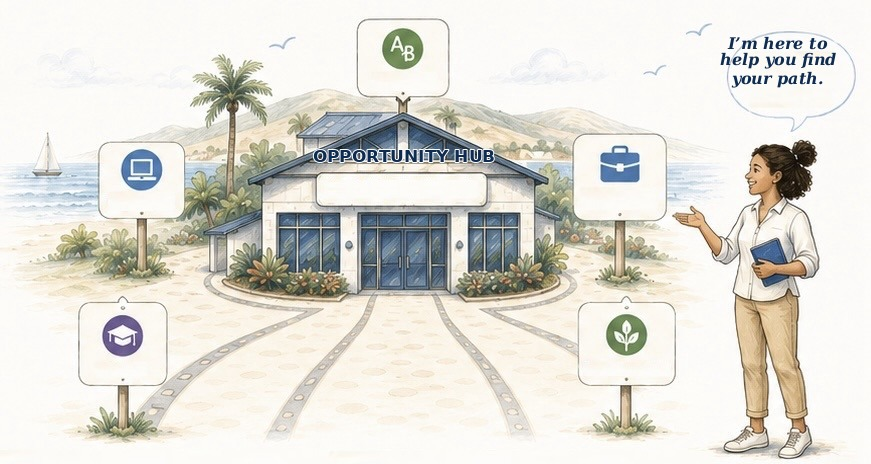
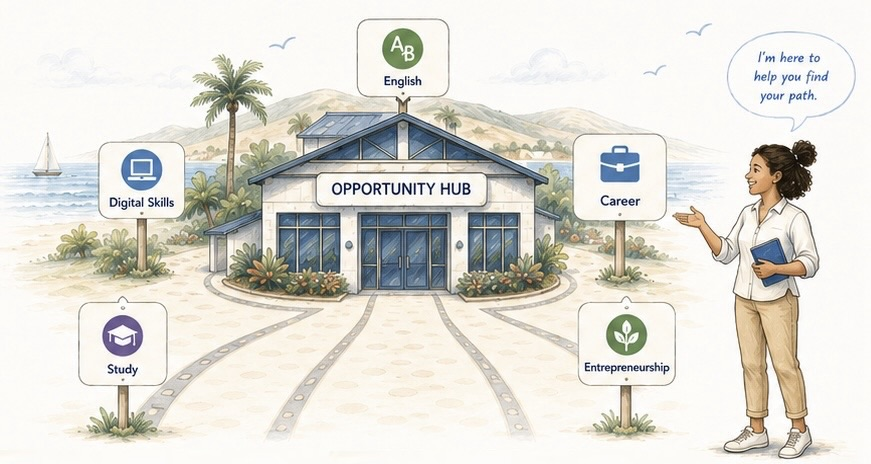
Add files via upload

diff --git a/resources.html b/resources.html
@@ -34,25 +34,6 @@ html{scroll-padding-top:108px}body{overflow-x:hidden}.section[id],main [id]{scro
 .hero-legend{max-width:1040px;margin:12px auto 0;display:flex;flex-wrap:wrap;gap:8px;justify-content:center;align-items:center;color:#31415d;font-size:.92rem}
 .hero-legend b{color:#0e2b52}.hero-legend span{display:inline-flex;align-items:center;border:1px solid #dbe7ee;background:#fff;border-radius:999px;padding:6px 10px;font-weight:800;white-space:nowrap}
 @media(max-width:640px){.hero-legend{justify-content:flex-start;font-size:.84rem;margin-top:10px}.hero-legend span{padding:5px 8px}}
-/* RH-LAYERED-HERO1: PowerPoint-style layered hero. Base image remains visual; labels are live HTML text for translation and accessibility fallback. Scope: resources.html hero only. */
-.hero-art-layered{position:relative!important;overflow:visible!important;background:#fff!important;}
-.rh-hero-stage{position:relative;display:block;width:100%;max-width:1160px;margin:0 auto;line-height:1;overflow:hidden;border-radius:30px;background:#fff;}
-.rh-hero-stage img{display:block!important;width:100%!important;height:auto!important;object-fit:contain!important;}
-.rh-hero-live-label{position:absolute;left:var(--rh-x);top:var(--rh-y);width:var(--rh-w);min-height:var(--rh-h);transform:translate(-50%,-50%) rotate(var(--rh-r,0deg));z-index:2;display:flex;align-items:center;justify-content:center;text-align:center;padding:.12em .22em;color:#142c47;font-family:Arial,"Helvetica Neue",Helvetica,sans-serif;font-size:clamp(.42rem,1.05vw,.86rem);font-weight:800;line-height:1.04;letter-spacing:.01em;overflow-wrap:anywhere;hyphens:auto;text-shadow:0 .06em 0 rgba(255,255,255,.86),0 0 .32em rgba(255,255,255,.74);pointer-events:none;}
-.rh-hero-live-label--digital{--rh-x:15.9%;--rh-y:42.5%;--rh-w:10.8%;--rh-h:5.5%;--rh-r:0deg;}
-.rh-hero-live-label--study{--rh-x:14.1%;--rh-y:78.9%;--rh-w:10.4%;--rh-h:5.5%;--rh-r:0deg;}
-.rh-hero-live-label--english{--rh-x:45.9%;--rh-y:17.9%;--rh-w:9.6%;--rh-h:4.7%;--rh-r:0deg;}
-.rh-hero-live-label--career{--rh-x:71.3%;--rh-y:42.0%;--rh-w:10.7%;--rh-h:5.4%;--rh-r:0deg;}
-.rh-hero-live-label--entrepreneurship{--rh-x:71.7%;--rh-y:78.6%;--rh-w:12.5%;--rh-h:5.9%;--rh-r:0deg;font-size:clamp(.39rem,1vw,.76rem);line-height:1.02;}
-.rh-hero-live-label--hub{--rh-x:47.2%;--rh-y:34.3%;--rh-w:21.3%;--rh-h:6.3%;--rh-r:0deg;color:#0e2b52;font-family:Georgia,"Times New Roman",serif;font-size:clamp(.54rem,1.38vw,1.12rem);font-weight:900;letter-spacing:.08em;text-transform:uppercase;text-shadow:0 .05em 0 rgba(255,255,255,.92),0 0 .25em rgba(255,255,255,.72);}
-.rh-hero-live-label--guide{--rh-x:90.4%;--rh-y:14.3%;--rh-w:12.4%;--rh-h:11.6%;--rh-r:0deg;color:#17385d;font-family:Georgia,"Times New Roman",serif;font-size:clamp(.45rem,1.18vw,.95rem);font-style:italic;font-weight:800;line-height:1.08;}
-.hero-art-layered + .hero-legend span{white-space:normal;max-width:100%;}
-@media(min-width:641px) and (max-width:900px){.rh-hero-stage{border-radius:24px}.rh-hero-live-label{font-size:clamp(.42rem,1.05vw,.82rem)}.rh-hero-live-label--entrepreneurship{font-size:clamp(.36rem,.92vw,.66rem)}.rh-hero-live-label--guide{font-size:clamp(.4rem,1vw,.78rem)}}
-@media(max-width:640px){.rh-hero-stage{border-radius:18px}.rh-hero-live-label{font-size:clamp(.34rem,1.75vw,.66rem);padding:.06em .12em;line-height:1.01;text-shadow:0 .04em 0 rgba(255,255,255,.9),0 0 .24em rgba(255,255,255,.8)}.rh-hero-live-label--digital{--rh-y:42.2%;--rh-w:11.8%;}.rh-hero-live-label--study{--rh-y:78.5%;--rh-w:11.2%;}.rh-hero-live-label--english{--rh-y:18.2%;--rh-w:10.5%;}.rh-hero-live-label--career{--rh-y:41.8%;--rh-w:11.2%;}.rh-hero-live-label--entrepreneurship{--rh-w:13.5%;font-size:clamp(.28rem,1.32vw,.52rem);letter-spacing:-.01em;}.rh-hero-live-label--hub{--rh-y:34.2%;--rh-w:22.3%;font-size:clamp(.38rem,1.74vw,.7rem);letter-spacing:.04em;}.rh-hero-live-label--guide{--rh-x:90.1%;--rh-y:14.0%;--rh-w:12.8%;font-size:clamp(.31rem,1.38vw,.56rem);line-height:1.03;}.hero-art-layered + .hero-legend{justify-content:flex-start}.hero-art-layered + .hero-legend span{white-space:normal;}}
-@media(min-width:901px) and (max-width:1180px) and (orientation:landscape){.rh-hero-live-label--guide{--rh-y:14.1%;--rh-w:12.8%;}.rh-hero-live-label--entrepreneurship{--rh-w:13%;}}
-@media(min-width:641px) and (max-width:1180px) and (orientation:portrait){.rh-hero-live-label--guide{--rh-y:14.2%;--rh-w:13%;}.rh-hero-live-label--hub{--rh-w:22%;}.rh-hero-live-label--entrepreneurship{--rh-w:13.5%;}}
-
-
 
 
 /* RH-VNEXT5F soft-launch QA fix: stability, navigation, and mobile polish */
@@ -85,7 +66,7 @@ html{scroll-padding-top:108px}body{overflow-x:hidden}.section[id],main [id]{scro
 <script>window.plausible=window.plausible||function(){(plausible.q=plausible.q||[]).push(arguments)},plausible.init=plausible.init||function(i){plausible.o=i||{}};plausible.init();function trackHubEvent(n,p){try{if(typeof window.plausible==='function')window.plausible(n,{props:p||{}})}catch(e){}}</script>
 </head><body id="top"><header class="topbar"><div class="top-inner"><a aria-label="Learning &amp; Career Resource Hub home" class="vnext-brand" href="resources.html"><svg aria-hidden="true" class="brand-mark-inline" focusable="false" height="120" viewBox="0 0 120 120" width="120" xmlns="http://www.w3.org/2000/svg"><rect fill="#FFFDF8" height="120" rx="60" width="120"></rect><circle cx="60" cy="60" fill="none" r="51" stroke="#0E2B52" stroke-width="3"></circle><circle cx="60" cy="60" fill="none" opacity=".55" r="44" stroke="#B8933C" stroke-width="1.2"></circle><text fill="#0E2B52" font-family="Georgia, 'Times New Roman', serif" font-size="34" letter-spacing="3" text-anchor="middle" x="60" y="65">JLJ</text><path d="M36 80 C45 75 52 84 60 79 C68 74 75 84 85 78" fill="none" opacity=".85" stroke="#6DA9C9" stroke-linecap="round" stroke-width="2"></path><path d="M42 87 C51 83 58 90 68 85" fill="none" opacity=".5" stroke="#6DA9C9" stroke-linecap="round" stroke-width="1.5"></path></svg><span><span class="brand-lockup-title">Learning &amp; Career<br/>Resource Hub</span><span class="brand-lockup-byline">by Jason <span class="gold">L.</span> Jones</span></span></a><nav class="nav"><a class="active" data-nav="start" href="resources.html">Start here</a><a data-nav="current" href="#current">Current opportunities</a><a data-nav="guide" href="resources-directory.html?view=guide">30-second guide</a><a data-nav="find" href="resources-directory.html?view=find#finder">Find</a><a data-nav="directory" href="resources-directory.html?view=directory#directory">Directory</a><a data-nav="about" href="resources-about.html">About</a><a data-nav="saved" href="resources-directory.html?view=saved#savedPanel">Saved</a><a class="translate-nav" data-nav="translate" href="#translation-help">Translate</a></nav></div></header>
 <main>
-<section class="hero hero-centered"><div class="hero-copy"><p class="eyebrow">Open now · Start here · Find your path</p><h1>Welcome to the Learning &amp; Career Resource Hub</h1><p class="lead">A free guide to help you discover learning, career, language, digital-skills, and opportunity resources — then choose one practical next step.</p><div class="row"><a class="btn primary" href="resources-directory.html?view=guide">Start the 30-second guide →</a><a class="btn ghost" href="resources-directory.html?view=find#finder">Find resources</a><a class="btn ghost" href="#current">Current opportunities</a></div></div><figure class="hero-art hero-art-layered" aria-label="Illustration of an Opportunity Hub with live pathway labels"><div class="rh-hero-stage"><img src="hub-hero-clean.jpg" alt="Illustration of an Opportunity Hub with signs for digital skills, study, English, career, entrepreneurship, and a guide message" loading="eager" decoding="async"/><span class="rh-hero-live-label rh-hero-live-label--digital">Digital Skills</span><span class="rh-hero-live-label rh-hero-live-label--study">Study</span><span class="rh-hero-live-label rh-hero-live-label--english">English</span><span class="rh-hero-live-label rh-hero-live-label--career">Career</span><span class="rh-hero-live-label rh-hero-live-label--entrepreneurship">Entrepreneurship</span><span class="rh-hero-live-label rh-hero-live-label--hub">OPPORTUNITY HUB</span><span class="rh-hero-live-label rh-hero-live-label--guide">I’m here to help you find your path.</span></div></figure><div class="hero-legend" aria-label="Resource hub pathways"><b>Pathways shown:</b><span>💻 Digital Skills</span><span>📚 Study</span><span>Aβ English</span><span>💼 Career</span><span>🌱 Entrepreneurship</span><span>🏛️ Opportunity Hub</span><span>🧭 I’m here to help you find your path.</span></div><div class="definition-card"><div class="definition-icon" aria-hidden="true">💡</div><p><b>Good first step:</b> choose one path, explore one resource, save one next step, then check the official provider page.</p></div></section>
+<section class="hero hero-centered"><div class="hero-copy"><p class="eyebrow">Open now · Start here · Find your path</p><h1>Welcome to the Learning &amp; Career Resource Hub</h1><p class="lead">A free guide to help you discover learning, career, language, digital-skills, and opportunity resources — then choose one practical next step.</p><div class="row"><a class="btn primary" href="resources-directory.html?view=guide">Start the 30-second guide →</a><a class="btn ghost" href="resources-directory.html?view=find#finder">Find resources</a><a class="btn ghost" href="#current">Current opportunities</a></div></div><figure class="hero-art hero-art-labeled"><img src="hub-hero-labeled.jpg" alt="Illustration of an Opportunity Hub with English labels for digital skills, study, English, career, entrepreneurship, the Opportunity Hub, and a guide message" loading="eager" decoding="async"/></figure><div class="hero-legend" aria-label="Resource hub pathways"><b>Pathways shown:</b><span>💻 Digital Skills</span><span>📚 Study</span><span>Aβ English</span><span>💼 Career</span><span>🌱 Entrepreneurship</span><span>🏛️ Opportunity Hub</span><span>🧭 I’m here to help you find your path.</span></div><div class="definition-card"><div class="definition-icon" aria-hidden="true">💡</div><p><b>Good first step:</b> choose one path, explore one resource, save one next step, then check the official provider page.</p></div></section>
 <section class="section" id="what-is-hub"><div class="hub-section soft-panel"><div><p class="intro-line"><b>Before we begin, you might be wondering…</b></p><h2>What is a HUB?</h2><p class="hub-def"><span class="term">hub</span> /hʌb/ noun · the central or main part of something <i>(like a bike wheel)</i> where most activity, traffic, or attention is focused.</p><p>That is the idea here: one central place that helps you connect to different learning, language, digital-skills, career, study, and entrepreneurship paths.</p><div class="spoke-pills"><span>💬 Language</span><span>💻 Digital skills</span><span>📚 Study</span><span>💼 Career</span><span>🌱 Entrepreneurship</span><span>📅 Current opportunities</span></div></div><figure class="bike-visual"><img src="bike-hub-concept.png" alt="Bicycle wheel hub with spokes connecting to different resource paths" loading="eager" decoding="async"/></figure></div></section>
 <section class="section"><div class="panel warning"><p><b>Beta preview:</b> This hub is still being improved. Resources, categories, and guidance may change as people test it and share feedback. The goal is simple: help a first-time visitor understand what this hub is, choose one path, and take one useful next step.</p></div></section>
 <section class="section" id="how"><div class="panel"><h2>How to use this hub without feeling overwhelmed</h2><p>This hub is not a course by itself. It brings useful resources into one place so you can choose a realistic next step.</p><div class="path-strip"><span>1. Choose</span><b>→</b><span>2. Explore</span><b>→</b><span>3. Save</span><b>→</b><span>4. Open official page</span></div></div></section>